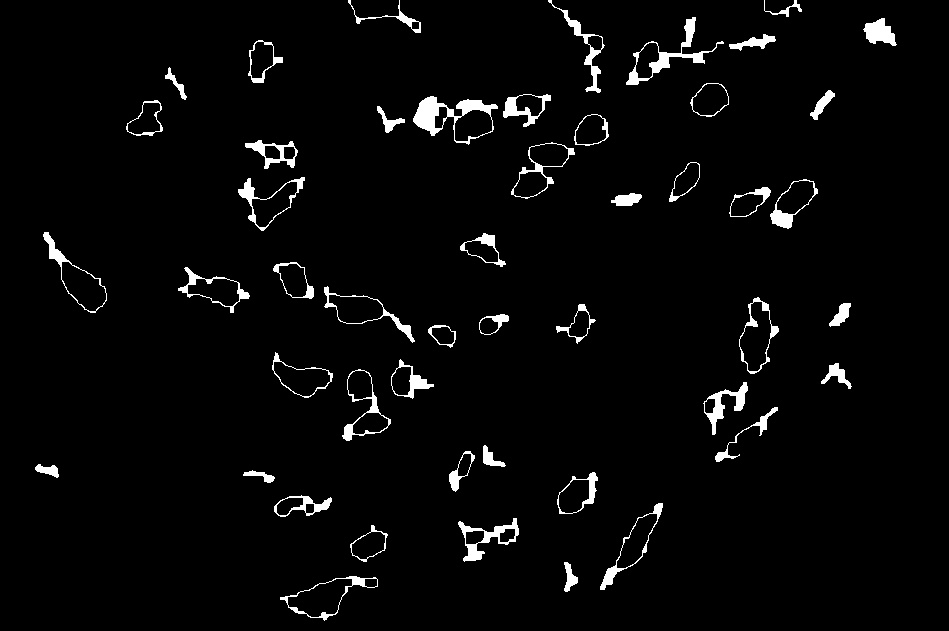
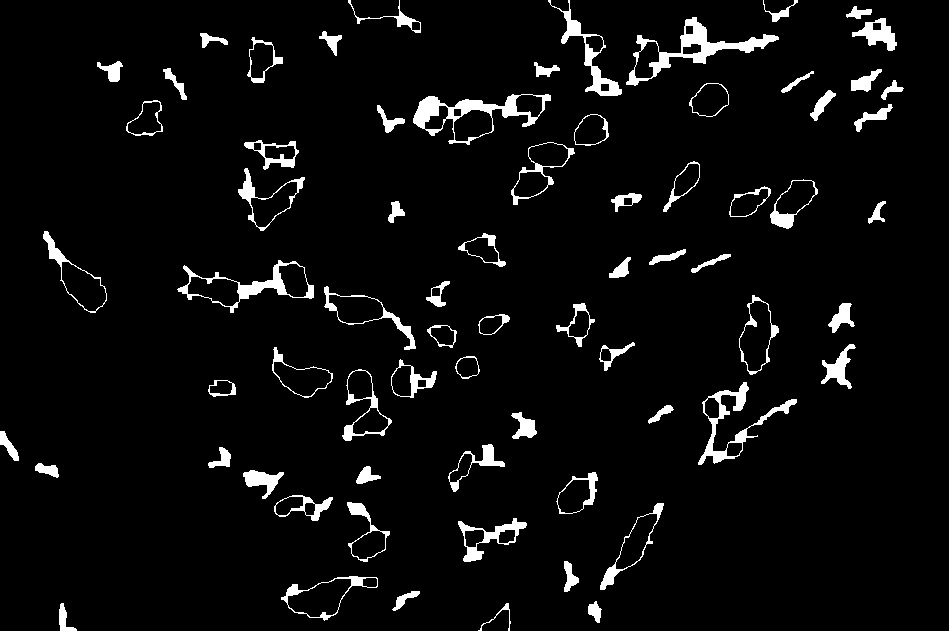
Initial commit

diff --git a/program/counter.py b/program/counter.py
@@ -21,7 +21,7 @@ image = cv2.filter2D(image, -1, kernel)
 gray_image = cv2.cvtColor(image, cv2.COLOR_BGR2GRAY)
 cv2.imwrite("gray.jpg", gray_image)
 gray_image = cv2.GaussianBlur(gray_image,(3,3),5)
-ret, threshold_image = cv2.threshold(gray_image, 110, 255, 0)
+ret, threshold_image = cv2.threshold(gray_image, 115, 255, 0)
 cv2.imwrite("threshold_image.jpg", threshold_image)
 
 #контурирование
@@ -37,24 +37,35 @@ nb_blobs, im_with_separated_blobs, stats, _ = cv2.connectedComponentsWithStats(e
 sizes = stats[:, -1]
 sizes = sizes[1:]
 nb_blobs -= 1
-min_size = 90
+min_size = 80
 im_result = np.zeros((edged.shape))
 for blob in range(nb_blobs):
-    if sizes[blob] >= min_size:
+    if 500 >= sizes[blob] >= min_size:
         im_result[im_with_separated_blobs == blob + 1] = 255
 cv2.imwrite("final.jpg", im_result)
 
-#контурирование
+image1 = image.copy()
 im_result = im_result.astype(np.uint8)
 contours, hierarchy = cv2.findContours(im_result.copy(), cv2.RETR_TREE, cv2.CHAIN_APPROX_SIMPLE)
-# отображаем контуры поверх изображения
-cv2.drawContours(image, contours, -1, (0,0,0), 3, cv2.LINE_AA, hierarchy, 1)
-cv2.imshow('contours', image) # выводим итоговое изображение в окно
-cv2.waitKey()
+cv2.drawContours(image1, contours, -1, (0,0,0), 3, cv2.LINE_AA)
+cv2.imwrite('contours_old.jpg', image1) # выводим итоговое изображение в окно
 
 kernel = cv2.getStructuringElement(cv2.MORPH_RECT, (7, 7))
 closed_final = cv2.morphologyEx(im_result, cv2.MORPH_CLOSE, kernel)
 cv2.imwrite("closed_final.jpg", closed_final)
+
+#контурирование
+closed_final = closed_final.astype(np.uint8)
+contours, hierarchy = cv2.findContours(closed_final.copy(), cv2.RETR_TREE, cv2.CHAIN_APPROX_SIMPLE)
+new_contours = []
+for cnt in contours:
+    area = cv2.contourArea(cnt)
+    perimeter = cv2.arcLength(cnt, True)
+    if area - perimeter > 100:
+        new_contours.append(cnt)
+# отображаем контуры поверх изображения
+cv2.drawContours(image, new_contours, -1, (0,0,0), 3, cv2.LINE_AA)
+cv2.imwrite('contours_new.jpg', image) # выводим итоговое изображение в окно
 
 closed_final = closed_final.astype(np.uint8)
 cnts = cv2.findContours(closed_final.copy(), cv2.RETR_EXTERNAL, cv2.CHAIN_APPROX_SIMPLE)
